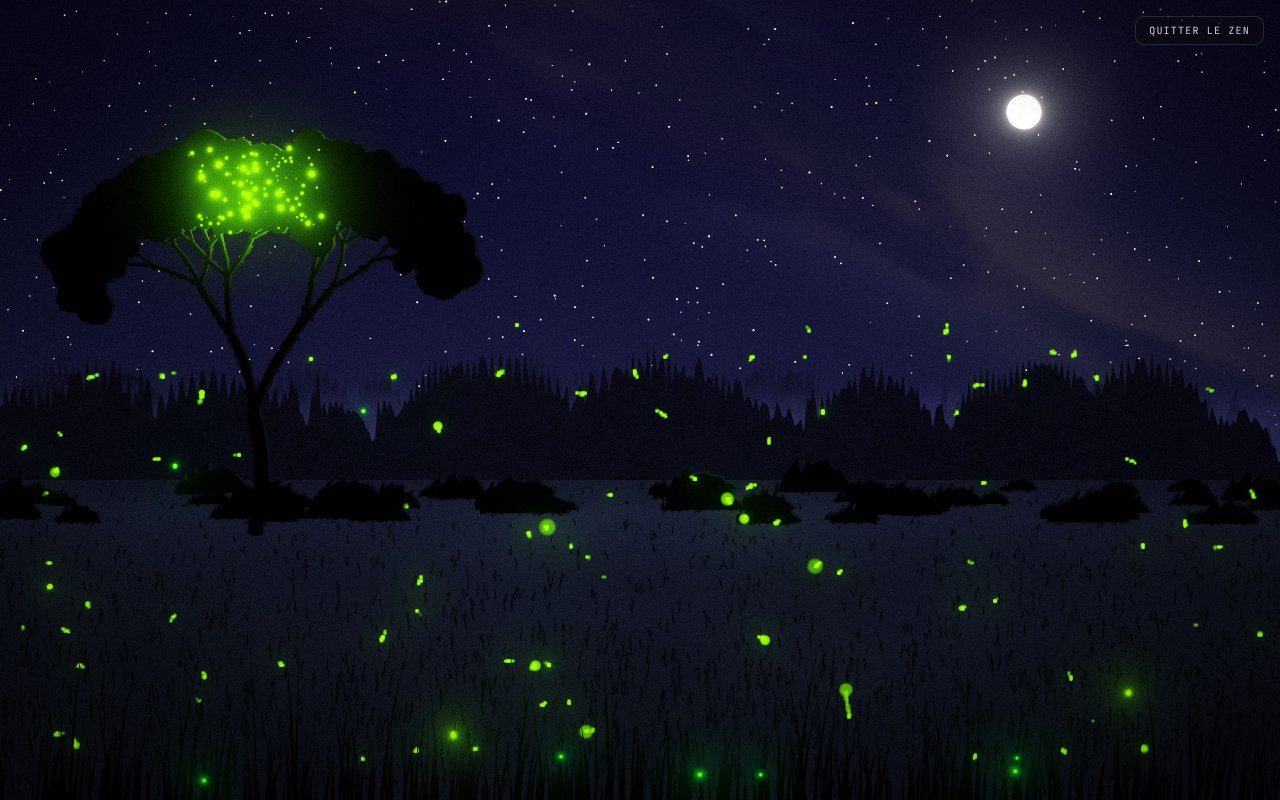
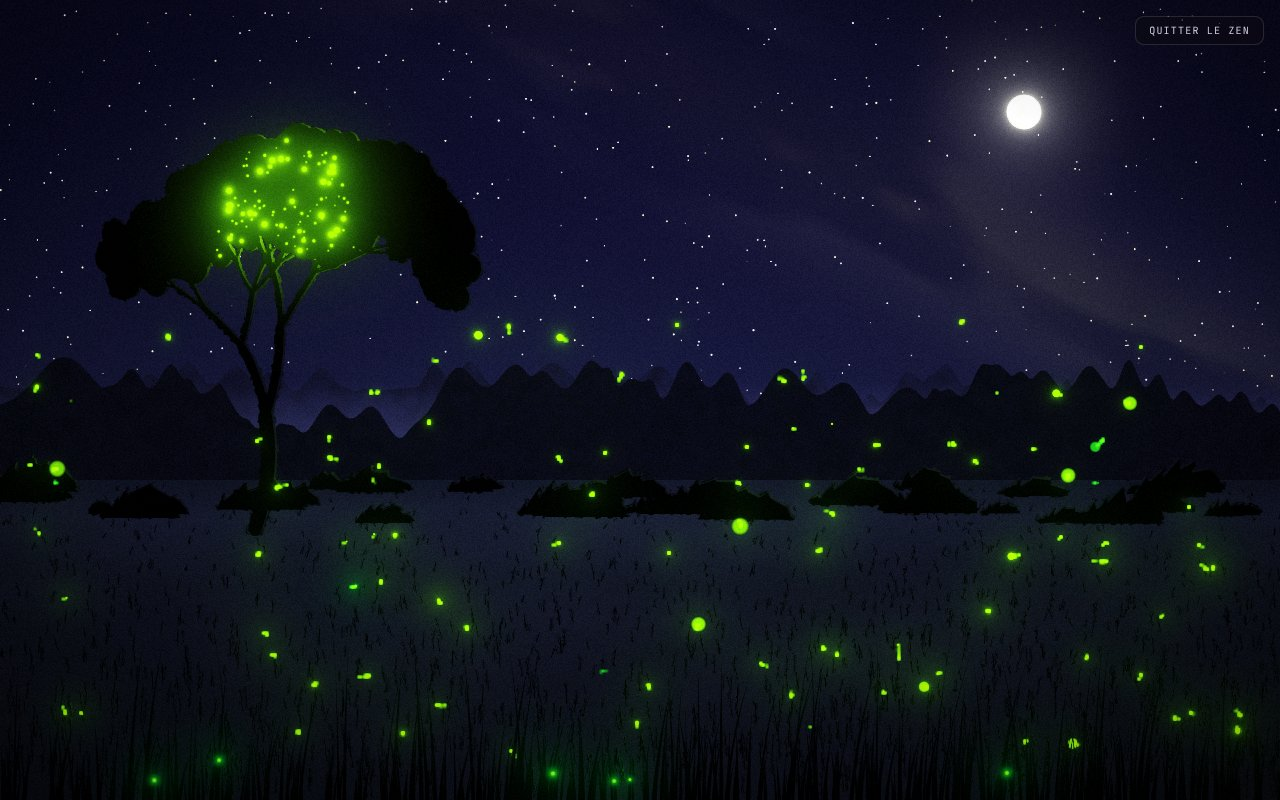
Lucioles : un bois en dômes lisibles, sans dents de scie ni entaille en V (recette qualité)
Le feuillage « bosselé » (sin(i*bump) tous les 3 px) faisait une dent par
couronne. Feuillus en dômes à 2-4 lobes larges, conifères rares et isolés,
masse de forêt continue, léger lissage ; en portrait, les arbres se
mesurent à la largeur du paysage (ils devenaient des montagnes).

Claude-Session: https://claude.ai/code/session_01MS9d5JmMjbNw1P1jiRQA2y

diff --git a/app/js/machines/s-lucioles.js b/app/js/machines/s-lucioles.js
@@ -100,33 +100,41 @@
         const g = farL.g, gm = layM.g;
         const ridge = (base, amp, nT, tH, col, seed, mc) => {
           const n = Math.ceil(W / 3) + 2, hg = new Float32Array(n);
-          for (let i = 0; i < n; i++) { const x = i * 3; hg[i] = amp * (0.5 + 0.5 * Math.sin(x * 0.0031 + seed)) + amp * 0.35 * Math.sin(x * 0.011 + seed * 2); }
+          // une masse de forêt continue (pas de trou en V entre deux arbres), qui ondule lentement
+          for (let i = 0; i < n; i++) { const x = i * 3; hg[i] = amp * (0.5 + 0.5 * Math.sin(x * 0.0031 + seed)) + amp * 0.35 * Math.sin(x * 0.011 + seed * 2) + tH * (0.42 + 0.08 * Math.sin(x * 0.006 + seed * 3)); }
           for (let k = 0; k < nT; k++) {
-            // un bois varié, pas une scie : des hauteurs et des largeurs très différentes, des conifères (flèche)
-            // et des feuillus (dôme) mêlés, chacun un peu penché et bosselé
-            const x0 = rnd(W), h = tH * (0.3 + 1.3 * Math.pow(Math.random(), 1.7)), kind = Math.random();
-            const w = h * (kind < 0.5 ? rnd(0.22, 0.12) : rnd(0.62, 0.3)), lean = rnd(0.5, -0.5);
-            const taper = kind < 0.5 ? rnd(1.5, 0.8) : 1, bump = rnd(3.5, 1.5), ph = rnd(TAU);
+            // un bois varié : surtout des feuillus en dômes (2 à 4 lobes à l'échelle de la couronne, jamais de dents fines),
+            // quelques conifères isolés en flèche ; des hauteurs et des largeurs très différentes
+            const x0 = rnd(W), h = tH * (0.45 + 1.1 * Math.pow(Math.random(), 1.6)), con = Math.random() < 0.22;
+            const w = h * (con ? rnd(0.3, 0.2) : rnd(0.9, 0.5)), lobes = 2 + rint(3), ph = rnd(TAU), lean = rnd(0.25, -0.25);
             for (let i = Math.max(0, ((x0 - w) / 3) | 0); i < Math.min(n, (x0 + w) / 3 + 1); i++) {
-              const u = (i * 3 - x0) / w;                           // signé : permet de pencher l'arbre
-              const ua = Math.abs(u + lean * (1 - Math.abs(u)) * 0.3);
+              const u = (i * 3 - x0) / w + lean * 0.2, ua = Math.abs(u);
               if (ua > 1) continue;
-              let p = kind < 0.5 ? h * Math.pow(1 - ua, taper) : h * Math.sqrt(Math.max(0, 1 - ua * ua));
-              p *= 0.86 + 0.14 * Math.sin(i * bump + ph);           // le feuillage bosselé
+              let p;
+              if (con) p = h * Math.pow(1 - ua, 1.15);
+              else {
+                // un dôme, avec des lobes larges (une couronne de feuillu vue de loin)
+                const dome = Math.sqrt(Math.max(0, 1 - ua * ua));
+                p = h * dome * (0.88 + 0.12 * Math.cos(u * Math.PI * lobes + ph)) * (0.9 + 0.1 * dome);
+              }
               if (p > hg[i]) hg[i] = p;
             }
           }
+          // un léger lissage : les petites aspérités de 3 px disparaissent, les formes restent
+          for (let pass = 0; pass < 2; pass++) { let a = hg[0]; for (let i = 1; i < n - 1; i++) { const b = hg[i]; hg[i] = (a + 2 * b + hg[i + 1]) / 4; a = b; } }
           for (const [gg, cc] of [[g, col], [gm, mc]]) {
             gg.fillStyle = cc; gg.beginPath(); gg.moveTo(0, H);
             for (let i = 0; i < n; i++) gg.lineTo(i * 3, base - hg[i]);
             gg.lineTo(W, H); gg.closePath(); gg.fill();
           }
         };
-        ridge(hor - H * 0.03, H * 0.05, Math.round(W / 9), H * 0.085, '#0b1222', 1.3, '#ff0000');
+        // les arbres se mesurent à la largeur du paysage, pas à la hauteur de l'écran (sinon, en portrait, ce sont des montagnes)
+        const Hs = Math.min(H, W * 0.75);
+        ridge(hor - Hs * 0.03, Hs * 0.05, Math.round(W / 16), Hs * 0.08, '#0b1222', 1.3, '#ff0000');
         const mist = g.createLinearGradient(0, hor - H * 0.12, 0, hor + H * 0.02);
         mist.addColorStop(0, 'rgba(120,140,190,0)'); mist.addColorStop(0.7, 'rgba(120,140,190,.09)'); mist.addColorStop(1, 'rgba(120,140,190,0)');
         g.fillStyle = mist; g.fillRect(0, hor - H * 0.12, W, H * 0.14);
-        ridge(hor, H * 0.025, Math.round(W / 7), H * 0.11, '#060a14', 4.1, '#00ff00');
+        ridge(hor, Hs * 0.025, Math.round(W / 13), Hs * 0.1, '#060a14', 4.1, '#00ff00');
         gm.fillStyle = '#0000ff'; gm.fillRect(0, hor, W, H - hor);
         const gr = g.createLinearGradient(0, hor, 0, H);
         gr.addColorStop(0, '#060913'); gr.addColorStop(1, '#020305');
